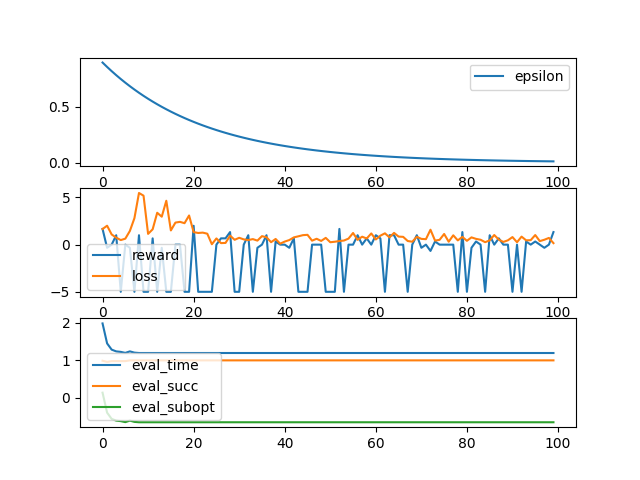
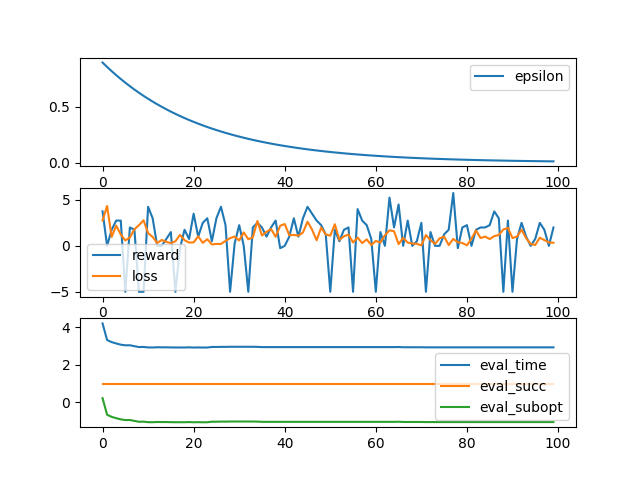
also works on bigger problems

diff --git a/multi_optim/mapf_with_rl.py b/multi_optim/mapf_with_rl.py
@@ -127,9 +127,9 @@ def make_useful_scenarios(n: int, seed) -> List[Scenario]:
         pb = ProgressBar("Data Generation", n, 5)
     while len(scenarios) < n:
         scen_data: SCENARIO_TYPE = tracing_pathes_in_the_dark(
-            size=4,
-            fill=.2,
-            n_agents=3,
+            size=8,
+            fill=.4,
+            n_agents=4,
             seed=seed)
         seed += 1
         (env, starts, goals) = scen_data
